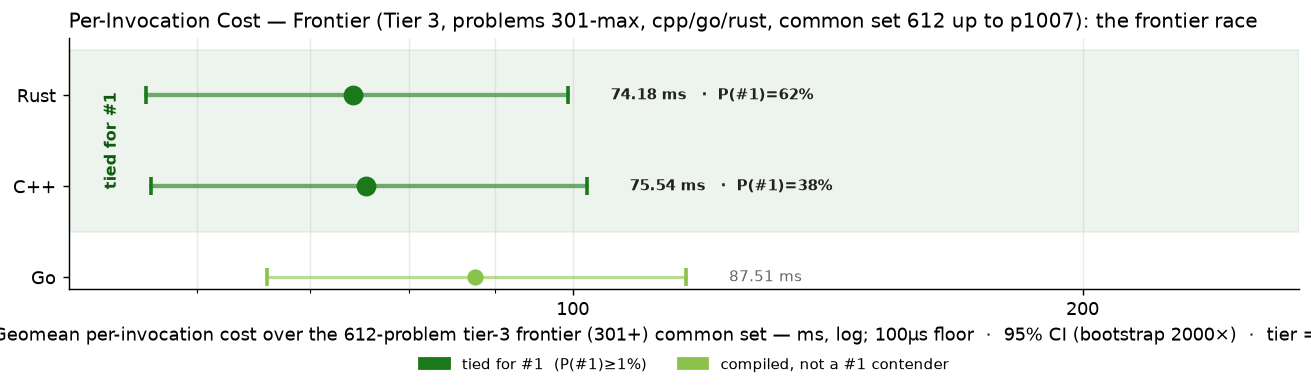
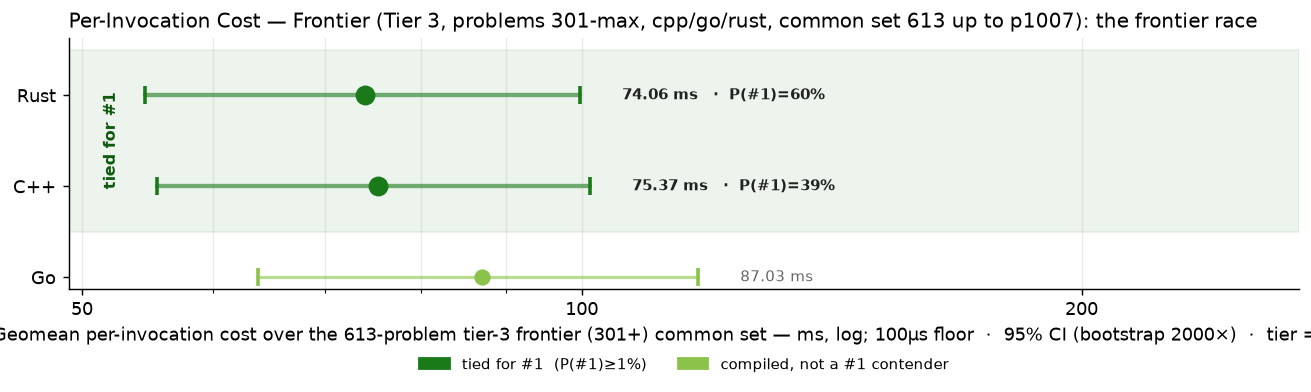
go p0626

diff --git a/RESULTS.md b/RESULTS.md
@@ -1,6 +1,6 @@
 # Project Euler — Cross-Language Benchmarks
 
-> **Scope: 4521 in-scope cells across 1007 problems × tiered languages — 4340 measured (96.0% coverage).**
+> **Scope: 4521 in-scope cells across 1007 problems × tiered languages — 4341 measured (96.0% coverage).**
 > The cross-language ranking below is computed over the **200-problem common set** (problems in 1-200 where every language has a passing measurement) — the apples-to-apples Foundation comparison surface.  Per-tier rankings and coverage detail appear further below.
 > Growing carefully — each new problem and language is audited for state-leak
 > safety, verified for answer correctness, and added only when it cleanly fits the
@@ -70,15 +70,15 @@ Same scatter as the Foundation chart, restricted to the tier-2 active languages 
 
 The frontier verification trio — C++, Go, Rust — on problems above 300. 3-way cross-language agreement is the verification protocol (strictly stronger than 2-way; see JOURNEY.md "Tier Reframing" episode for the p254 lesson that motivated it). Python and Zig are explicitly out of this tier — python's wall cost makes it impractical at level 5+, and zig's role caps at Tier 2.
 
-### Per-Invocation Cost (Common Set, 612 of ≤707 problems in scope)
+### Per-Invocation Cost (Common Set, 613 of ≤707 problems in scope)
 
 ![Per-Invocation Cost — Tier 3](charts/per_iter_total_tier3.png)
 
-| Rank | Language | Geomean (612-problem common set) | Total (sum) | Lines of code | vs Fastest |
+| Rank | Language | Geomean (613-problem common set) | Total (sum) | Lines of code | vs Fastest |
 |------|----------|--------------------:|------------:|--------------:|-----------:|
-| 1 | **Rust** | 74.18 ms | 1703.49 s | 116,043 | 1.00× |
-| 2 | **C++** | 75.54 ms | 1822.24 s | 87,028 | 1.02× |
-| 3 | **Go** | 87.51 ms | 2095.33 s | 110,044 | 1.18× |
+| 1 | **Rust** | 74.06 ms | 1703.51 s | 116,449 | 1.00× |
+| 2 | **C++** | 75.37 ms | 1822.25 s | 87,210 | 1.02× |
+| 3 | **Go** | 87.03 ms | 2095.34 s | 110,283 | 1.18× |
 
 ### Speed vs Code Size
 

diff --git a/per_problem/per_problem_0601-0700.md b/per_problem/per_problem_0601-0700.md
@@ -33,7 +33,7 @@ in tier-1 display order (native → managed → interpreted).
 | **p0623** | 2.38 s | 2.44 s | 1.09 s |
 | **p0624** | 8.7 µs | 5.9 µs | 4.7 µs~ |
 | **p0625** | 872.01 ms | 647.09 ms | 768.48 ms |
-| **p0626** | 18.51 ms | 27.46 ms | — |
+| **p0626** | 18.51 ms | 27.46 ms | 3.02 ms |
 | **p0627** | 54.22 ms | 29.54 ms | 133.85 ms |
 | **p0628** | 314.47 ms | 339.06 ms | — |
 | **p0629** | 46.49 ms | 30.54 ms | 19.10 ms |
